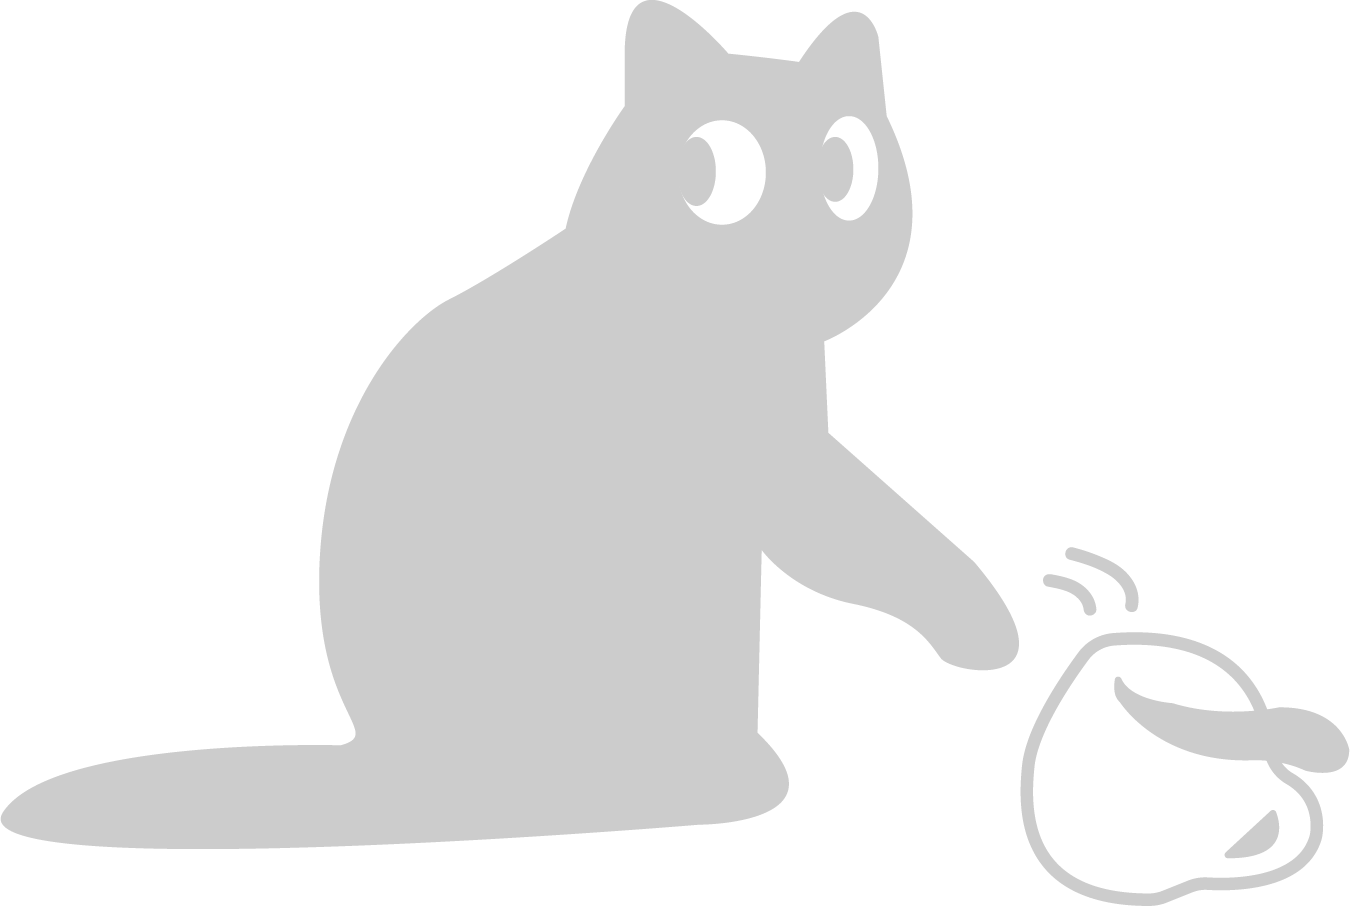
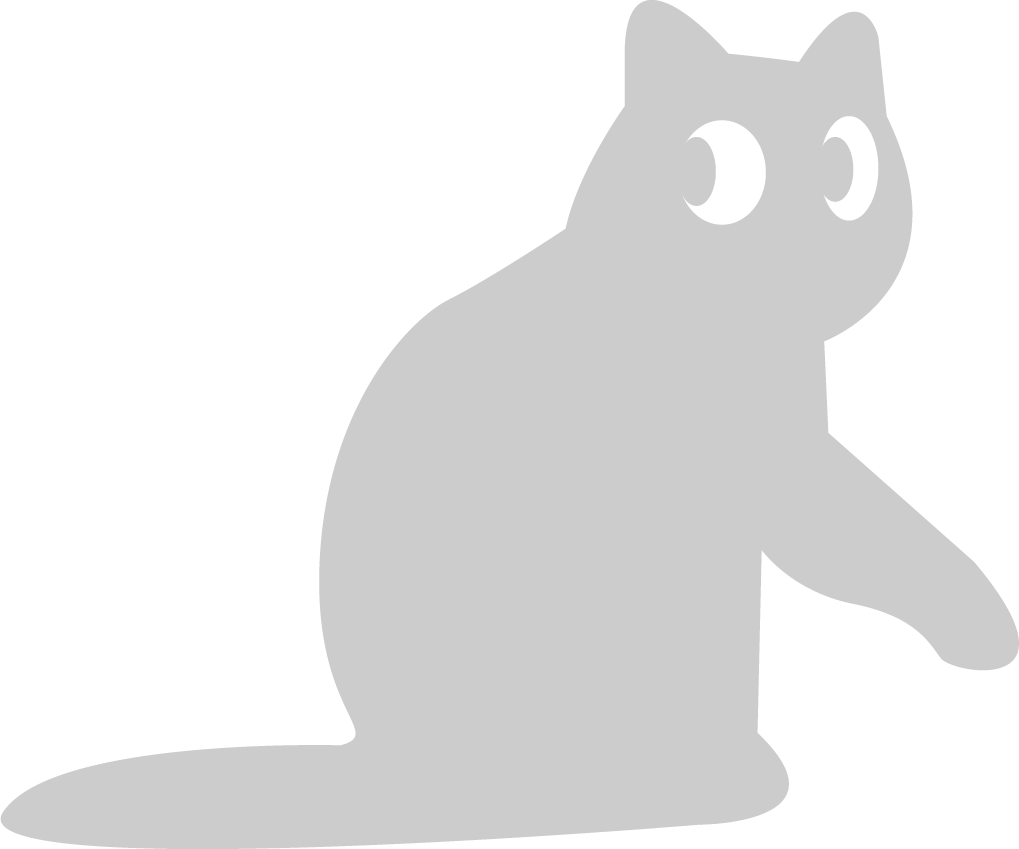
add coffee hover

diff --git a/style.css b/style.css
@@ -2,6 +2,9 @@
     padding: 0;
     margin: 0;
 }
+body {
+    overflow-x: hidden;
+}
 header{
     background-color: rgb(166, 166, 166 ,0.9);
     height: 80px;
@@ -9,7 +12,8 @@ header{
     position: fixed;
 
 }
-h1{color: white;
+h1{
+    color: white;
     position: absolute;
     /*left: 120px;*/
     top: 0;
@@ -41,20 +45,47 @@ header a:hover{
     text-decoration: underline;
 }
 /*main 第一個<section class="news">*/
-.news{
-    background-color: white;
-    color: #737373;
-    height: 80vh;
-    background-image: url("imgs/Cat.png");
-    background-repeat: no-repeat;
-    /*縮小貓咪圖片30%*/
-    background-size: 30%;
-    background-position: center;
-    width:1200px;
+.news {
     display: flex;
-    flex-direction: column;
-    align-items: center;
+    justify-content: center; /* 水平置中 */
+    align-items: center; /* 垂直置中 */
+    height: 80vh; /* 確保區塊有足夠高度 */
+}
+    /*background-image: url("imgs/Cat.png");*/
+    /*background-repeat: no-repeat;*/
+    /*!*縮小貓咪圖片30%*!*/
+    /*background-size: 25%;!* 原本30%，大小 *!*/
+    /*background-position: center;*/
+    /*width:100%;*/
+    /*display: flex;*/
+    /*flex-direction: column;*/
+    /*align-items: center;*/
+    /*justify-content: center;*/
+.container {
+    position: relative;
+    display: flex;
+    align-items: flex-end; /* 讓貓咪和咖啡杯底部對齊 */
     justify-content: center;
+    gap: 10px;
+    width: 300px;
+    height: 200px;
+}
+
+.Cat {
+    width: 150px;
+    position: relative;
+}
+
+.coffee {
+    width: 80px;
+    position: relative;
+    margin-left: -20px;
+    transition: transform 0.5s ease;
+}
+
+/* 讓咖啡杯在 hover 時擺動 */
+.container:hover .coffee {
+    transform: rotate(30deg) translateX(20px);
 }
 /*main 第二個<section class="Error">*/
 .Error{
@@ -66,13 +97,13 @@ header a:hover{
 }
 .Error h2{
     font-family: "Arial", sans-serif;
-    font-size: 30px;
+    font-size: 3rem;/* 調整成 rem，適應不同螢幕 */
     display: flex;
     justify-content: center;
 }
 .Error p{
     font-family: "Arial", sans-serif;
-    font-size: 20px;
+    font-size: 1.5rem;
     display: flex;
     justify-content: center;
     line-height: 1.5em;
@@ -88,17 +119,21 @@ footer
     align-items: center;
     font-size: 14px;
     line-height: 1.5em;
+    width: 100%;
+    text-align: center;
+    padding: 20px;
+    position: relative;
 }
 .menu{
     display: none;
 }
 /*響應式語法*/
 @media screen and (max-width: 800px){
-   .h1{
-       background-position: 80%center;
-         width: 100px;
-            right: 10px;
-   }
+   /*h1{*/
+   /*    background-position: 80%center;*/
+   /*      width: 100px;*/
+   /*         right: 10px;*/
+   /*}*/
     header ul{
         display: none;
         left: 50%;
@@ -108,7 +143,8 @@ footer
     .news{
         width: 150%;
         height: 50vh;
-        background-size: 35%;
+        /* 貓咪圖片大小 */
+        background-size: 40%;/* 原本30%，太小 */
         /*讓貓咪圖片往左邊靠20% 往下面靠100%*/
         background-position:20% 100% ;
         /*width:700px;*/
@@ -116,10 +152,10 @@ footer
     }
     /*main 第二個<section class="Error">*/
     .Error h2{
-        font-size: 40px;
+        font-size: 5vw;
     }
     .Error p{
-        font-size: 16px;
+        font-size: 4vw;
     }
     /*footer的內容*/
     footer{
@@ -136,6 +172,24 @@ footer
         right: 20px;
         border: none;
         cursor: pointer;
+    }
+    /*更改*/
+    .nav menu{
+        display: none;
+        position: absolute;
+        top: 80px;
+        right: 0;
+        width: 100%;
+        background-color: rgb(0, 0, 0 ,0.9);
+        text-align: center;
+        flex-direction: column;
+        z-index: 9999;
+    }
+    .nav-menu.active{
+        display: flex;/*點擊後顯示選單*/
+    }
+    .nav-menu li{
+        margin: 10px 0;
     }
 
 }

diff --git a/index.html b/index.html
@@ -1,7 +1,6 @@
 <!DOCTYPE html>
 <html lang="en">
 <head>
-    <button class="menu">&#9776;</button>
     <meta charset="UTF-8">
     <meta name="viewport" content="width=device-width, initial-scale=1.0">
     <title>One Two Studio</title>
@@ -9,19 +8,30 @@
 </head>
 
 <body>
+
 <header>
+    <button class="menu">&#9776;</button>
+
     <h1>One Two Studio</h1>
 <nav>
-<ul>
+<!--菜單按鈕-->
+<ul class="nav-menu">
     <li><a href="#">Home</a> </li>
-    <li><a href="#">Work</a> </li>
-    <li><a href="#">About</a> </li>
-    <li><a href="#">Q & A</a> </li>
+<!--    <li><a href="#"> |</a> </li>-->
+    <li><a href="#"> Work</a> </li>
+<!--    <li><a href="#"> |</a> </li>-->
+    <li><a href="#"> About</a> </li>
+<!--    <li><a href="#"> |</a> </li>-->
+    <li><a href="#"> Q & A</a> </li>
 </ul>
 </nav>
 </header>
 <main>
     <section class="news">
+        <div class="container">
+            <img src="imgs/Cat.png" alt="貓咪" class="Cat">
+            <img src="imgs/coffee.png" alt="咖啡杯" class="coffee">
+        </div>
     </section>
 
     <section class="Error">
@@ -35,5 +45,10 @@
 <footer>
     <p>Copyright &copy; 2025 One Two Studio</p>
 </footer>
+<script>
+    document.querySelector(".menu").addEventListener("click", function() {
+        document.querySelector(".nav-menu").classList.toggle("active");
+    });
+</script>
 </body>
 </html>
